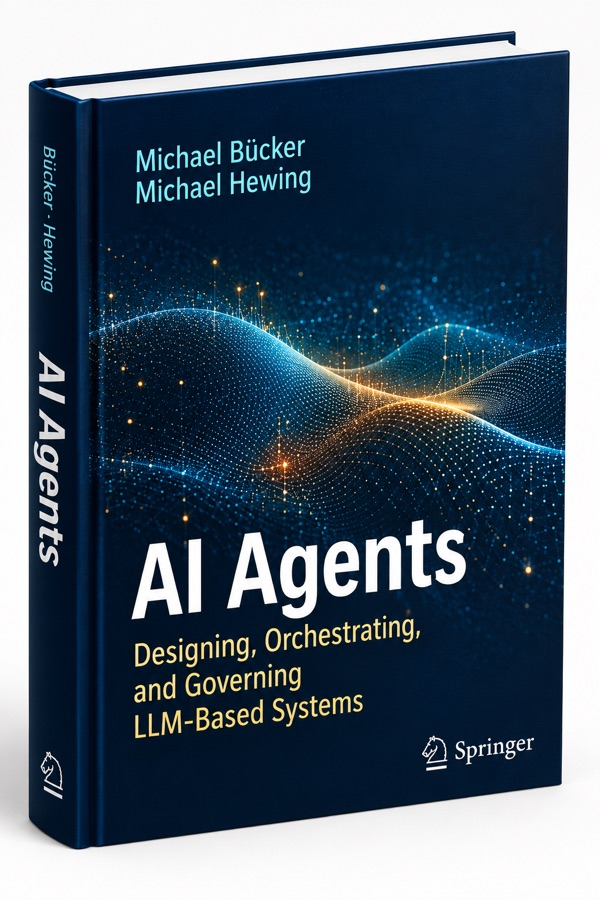
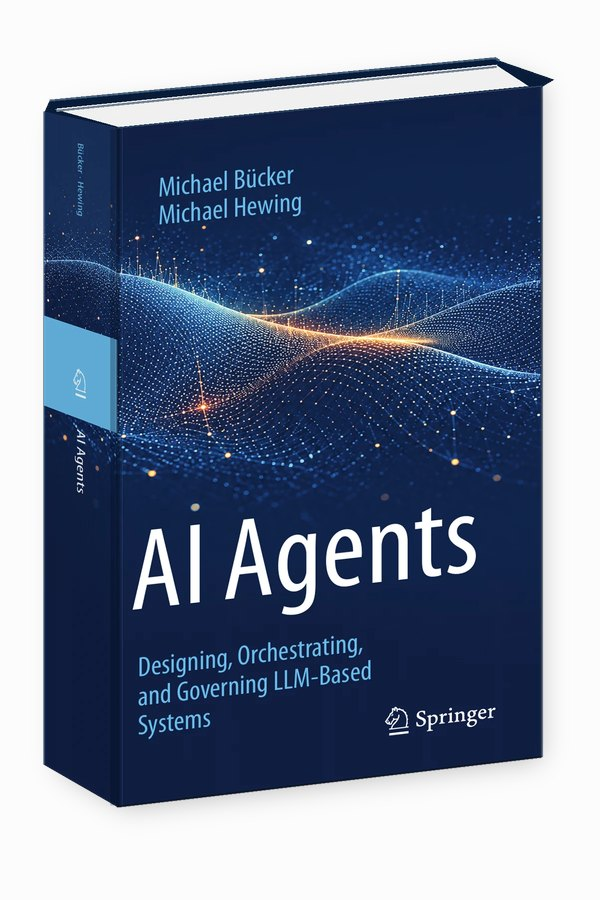
Show the cover Springer is actually printing
The render on the site still showed the earlier draft. Springer's final
file keeps the Springer knight box on the spine alone, so a render that
wraps it onto the front board shows a cover that will not exist.

Same filenames on purpose: og:image is cached by URL at LinkedIn and the
other scrapers, and the previous versions stay reachable in history.

diff --git a/index.html b/index.html
@@ -105,7 +105,7 @@
     </div>
     <div class="hero-cover">
       <!-- WebP because it is the only format here that carries the render's
-           transparency at a sensible weight: 102 KB against 705 for the same
+           transparency at a sensible weight: 77 KB against 438 for the same
            image as PNG. Transparency is what lets one file serve both colour
            schemes instead of a white rectangle showing up in dark mode. The
            JPEG beside it exists only for og:image, since social scrapers
